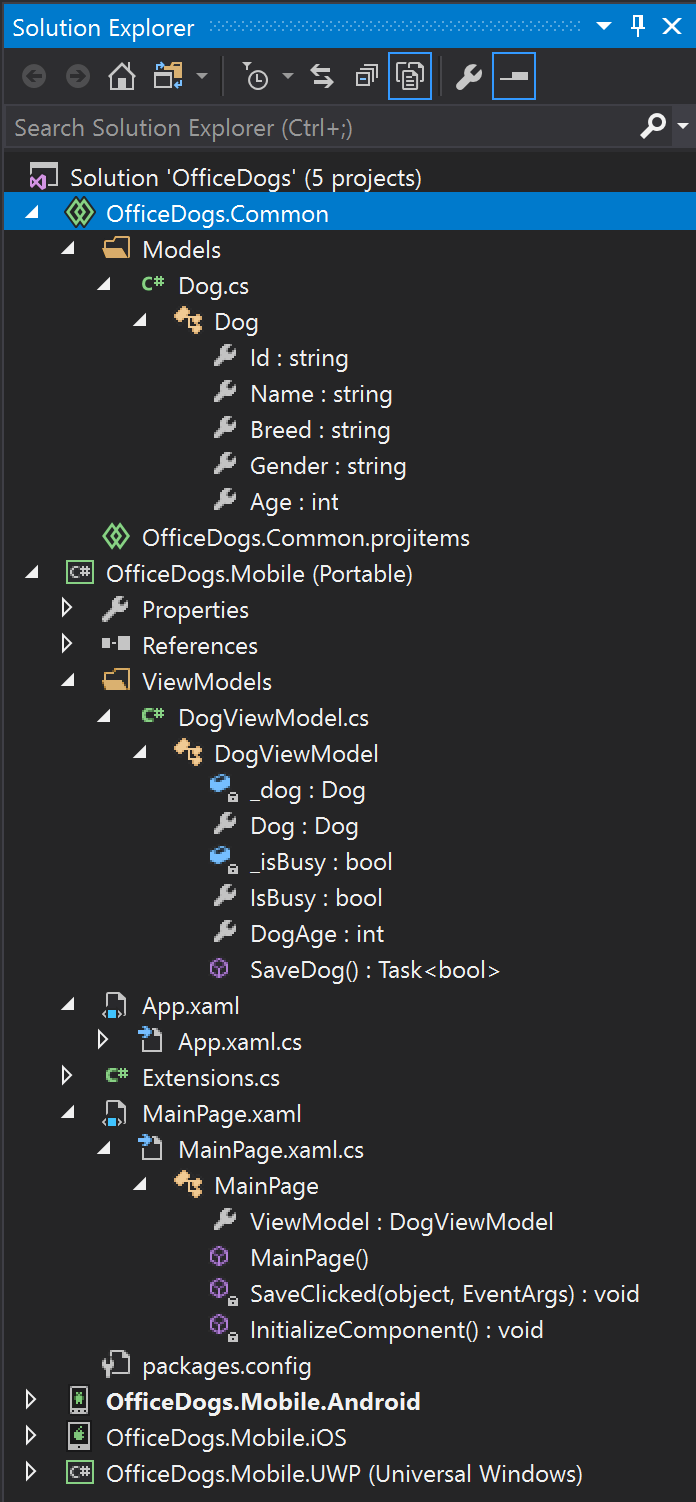
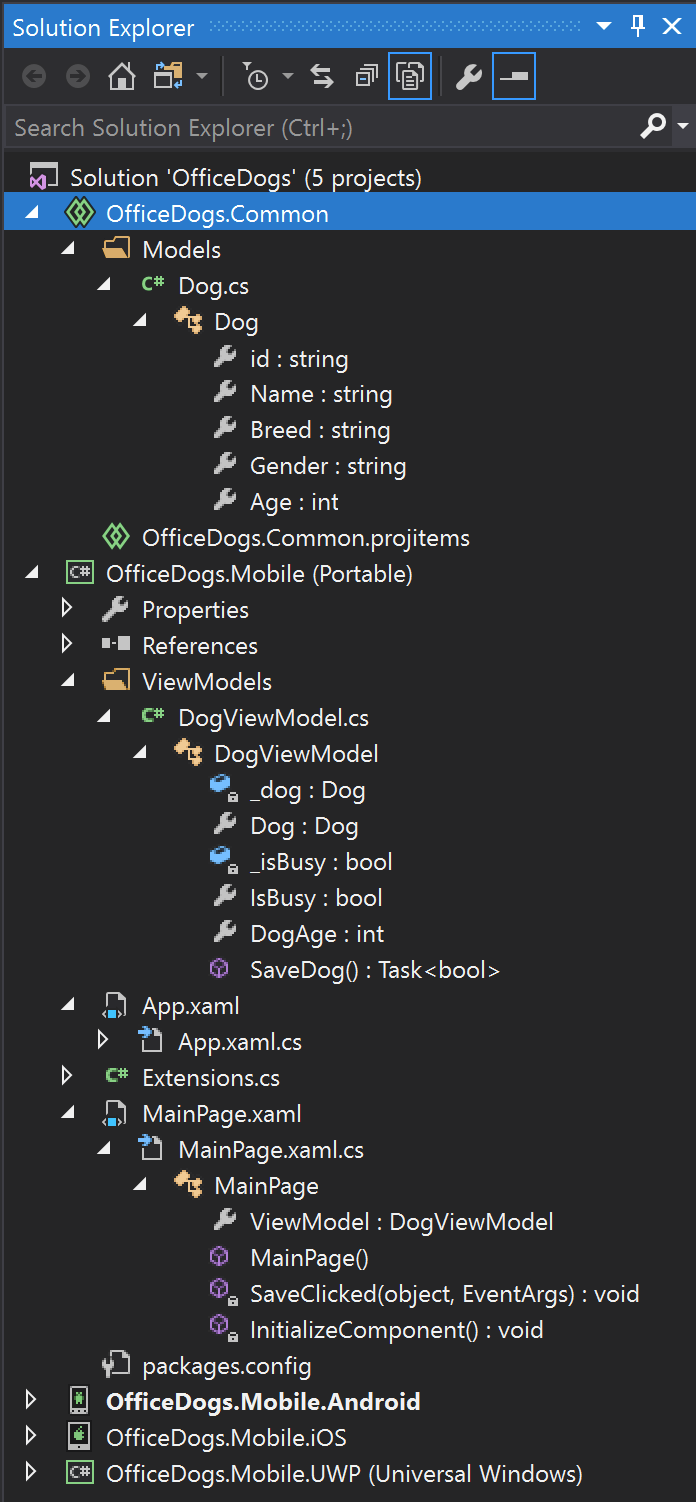
instruction updates

diff --git a/README.md b/README.md
@@ -16,22 +16,26 @@
 1. Add this `Keys.cs` file to your `OfficeDogs.Common` project: [code](https://github.com/rob-derosa/Q2Hackathon/blob/master/src/OfficeDogs/OfficeDogs.Common/Keys.cs)
 1. Open `MainPage.xaml` and add the following code as your page content: [code](https://github.com/rob-derosa/Q2Hackathon/blob/master/src/OfficeDogs/OfficeDogs.Mobile/OfficeDogs.Mobile/MainPage.xaml#L7-L45)
 1. Add a new folder to `OfficeDogs.Mobile` called `ViewModels`
-   1. Within `ViewModels`, add a new C# class called `DogViewModel`
+   1. Within `ViewModels`, add a new C# class called `DogViewModel` and make it `public`
 1. Add a new folder to `OfficeDogs.Common` called `Models`
    1. Add a new file within `Models` called `Dog.cs` which will serve as the `Dog` model
 1. Add the **Newtonsoft.Json** nuget package to `OfficeDogs.Mobile`
    1. (Right-click the project and click **Manage NuGet Packages**.  The default list of packages shown will be the installed packages — make sure to click **“Browse”** to see a full list of available Nuget packages)
-1. Add the **System.Net.Http** by Microsoft nuget package to `OfficeDogs.Mobile`
+1. Add the **Microsoft.Net.Http** nuget package to `OfficeDogs.Mobile`
 1. Add some properties you want to persist to the `Dog` model (name, age, breed, gender, etc) i.e. `public string Breed { get; set; }`
-1. Ensure you have an `string id` (lowercase) - property this is required for DocumentDB
+1. Ensure you have a property called `id` of type `string` (lowercase) - this is required for DocumentDB
 1. In `DogViewModel`
    1. ensure your class derives from `BindableObject` (if you see an error, you’ll need to add a using reference to **Xamarin.Forms**)
-   1. Add 2 `INotifyPropertyChanged` properties: `Dog` and `IsBusy`
+   1. Add 2 public properties: `Dog(Dog)` and `IsBusy(bool)` and call `OnPropertyChanged()` in the setter - this is what triggers the UI to re-evaluate the binding data
+      * yes, you will need a backing field for each property (eg. `_dog`)
+      * see [here](https://github.com/rob-derosa/Q2Hackathon/blob/master/src/OfficeDogs/OfficeDogs.Mobile/OfficeDogs.Mobile/ViewModels/DogViewModel.cs#L18-L23) if you get stuck:
    1. Instantiate `Dog` to a new instance
 1. Add this `Extensions.cs` file to your `OfficeDogs.Mobile` project: [code](https://github.com/rob-derosa/Q2Hackathon/blob/master/src/OfficeDogs/OfficeDogs.Mobile/OfficeDogs.Mobile/Extensions.cs)
 1. Add the following to `DogViewModel`
    1. a method called `SaveDog` that returns `Task<bool>`
-   1. inside, add a `try/catch` block that awaits a 2 second delay and `Debug.WriteLine` the dog's name, all encompassed with an `IsBusy` flag (this is placeholder code)
+   1. inside, add a `try/catch/finally` block that awaits a 2 second delay and `Debug.WriteLine` the dog's name
+      1. set `IsBusy` to `true` as the first line in the `try`
+      1. set `IsBusy` to `false` in the `finally` block
    1. a property called `DogAge` that simply wraps `Dog.Age` and calls `OnPropertyChanged()` in the setter  
 1. Back in `MainPage.xaml.cs`
    1. Add a `DogViewModel` property and instantiate it to a new instance
@@ -63,12 +67,12 @@
 1. Add the **Microsoft.Azure.DocumentDB** nuget package to `OfficeDogs.Backend`
 
 1. In the Azure Portal (portal.azure.com)
-   1. Create a new resource group and call it `officedogs`
+   1. Click on **Resource Groups** and then click the **+ Add** button to create a new resource group - call it `officedogs`
 
    <img src="https://github.com/rob-derosa/Q2Hackathon/blob/master/guides/images/new_resource_group.png?raw=true" width="300" />
    
    1. Within this resource group
-     1. Create a new Functions App and call it `officedogs-XXXX` (globally unique name) and click `Create`
+     1. Click the **+ Add** button to create a new Functions App - call it `officedogs-XXXX` (globally unique name) and click `Create`
 
      <img src="https://github.com/rob-derosa/Q2Hackathon/blob/master/guides/images/portal_new_function.png?raw=true" width="300" />
 
